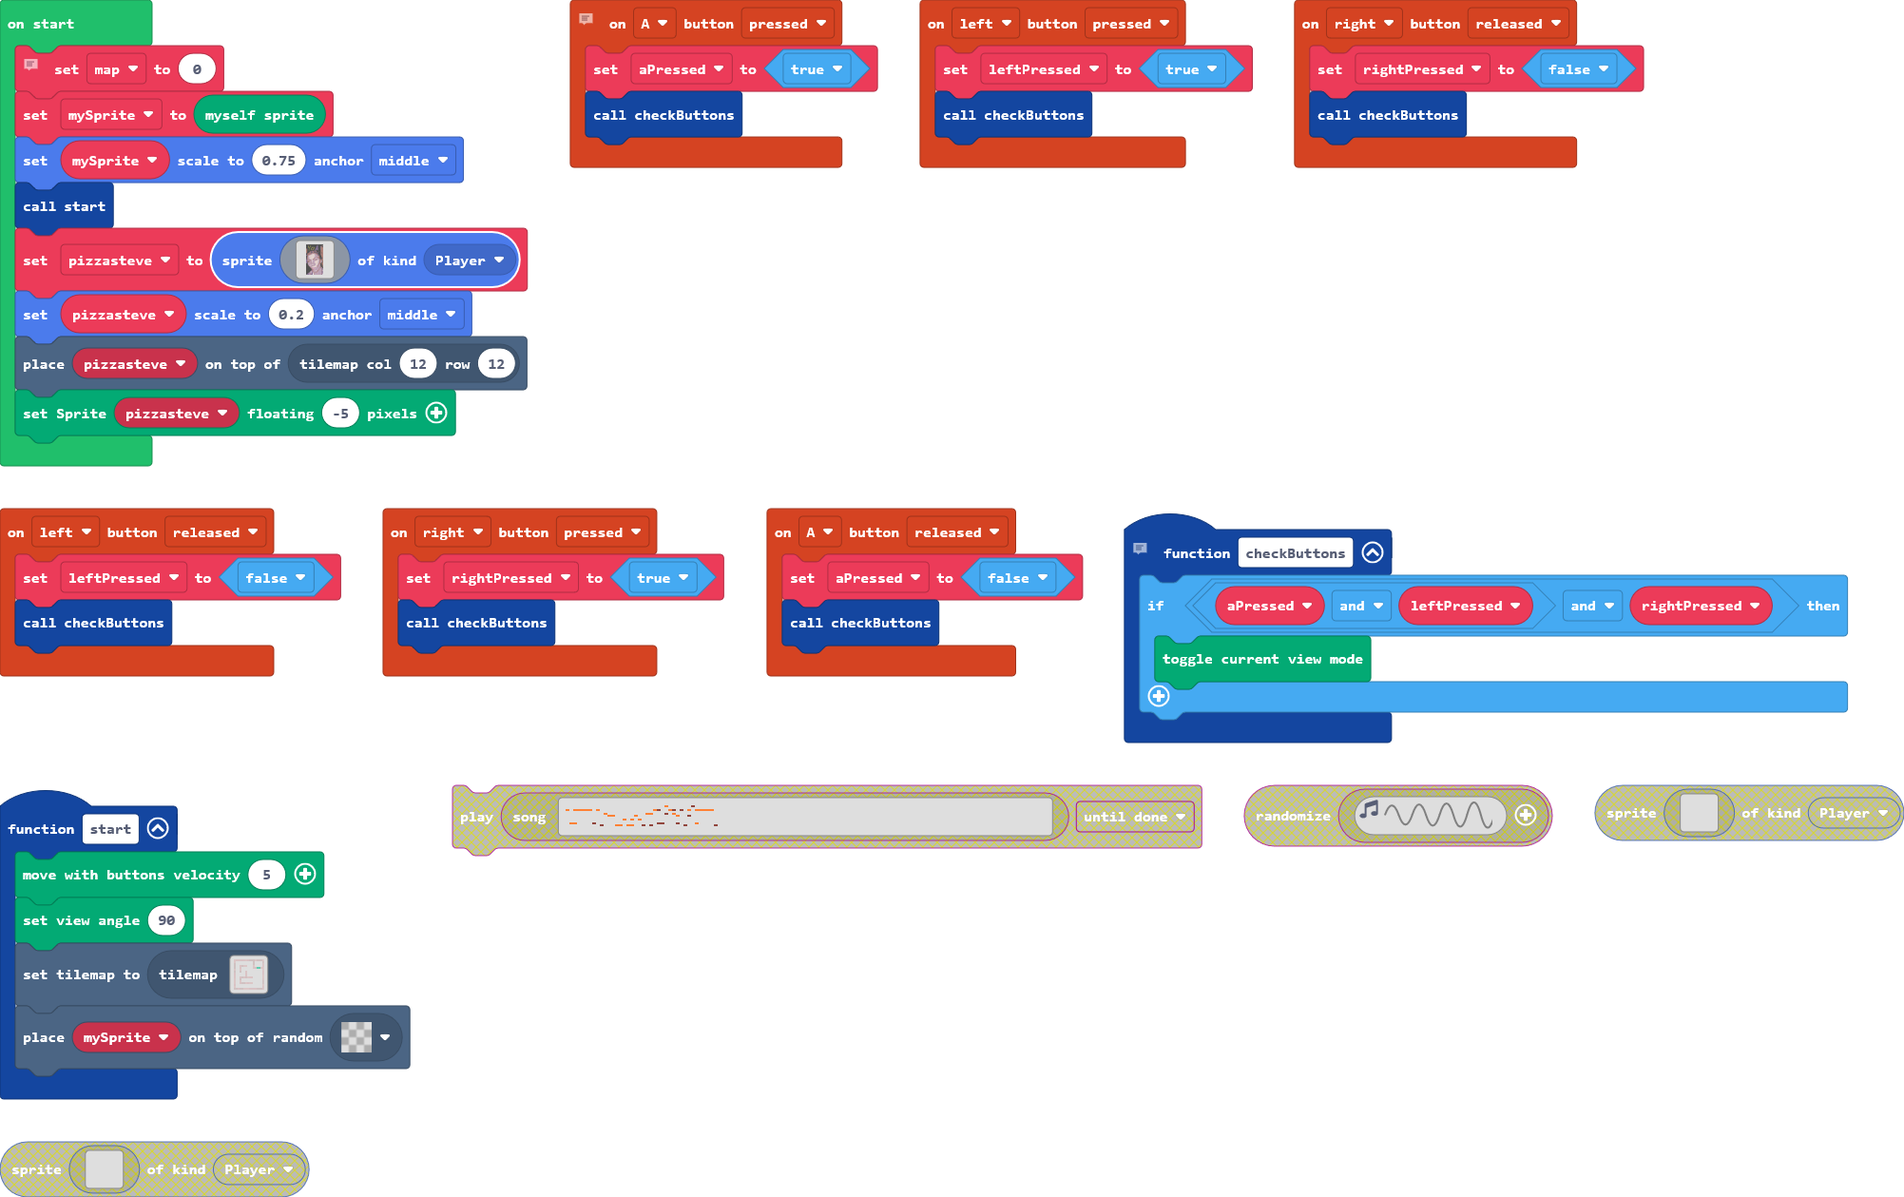
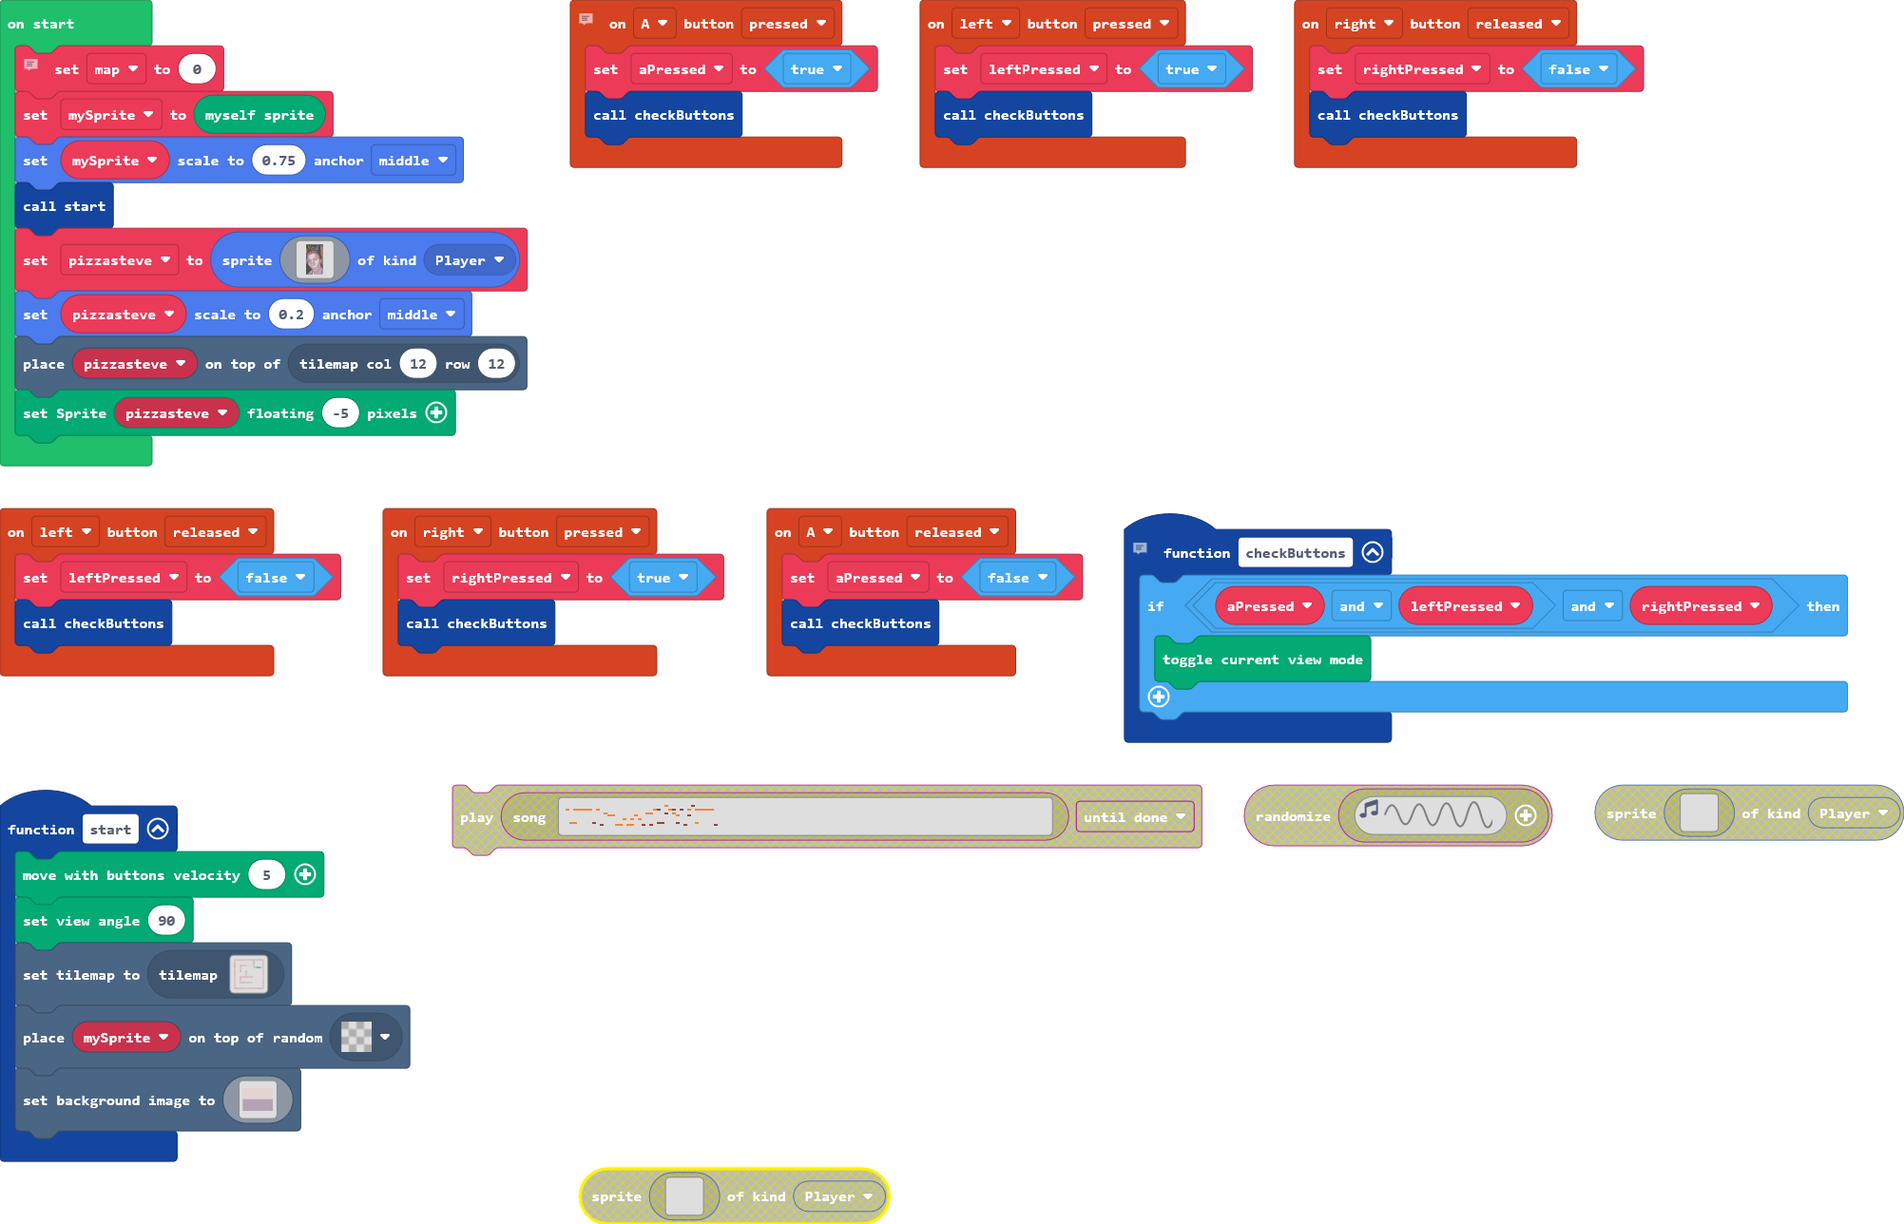
"ceiling" & "floor" (added  background image)

diff --git a/main.ts b/main.ts
@@ -34,6 +34,128 @@ function start () {
     Render.setViewAngleInDegree(90)
     tiles.setCurrentTilemap(tilemap`level1`)
     tiles.placeOnRandomTile(mySprite, assets.tile`transparency16`)
+    scene.setBackgroundImage(img`
+        dddddddddddddddddddddddddddddddddddddddddddddddddddddddddddddddddddddddddddddddddddddddddddddddddddddddddddddddddddddddddddddddddddddddddddddddddddddddddddddddd
+        dddddddddddddddddddddddddddddddddddddddddddddddddddddddddddddddddddddddddddddddddddddddddddddddddddddddddddddddddddddddddddddddddddddddddddddddddddddddddddddddd
+        dddddddddddddddddddddddddddddddddddddddddddddddddddddddddddddddddddddddddddddddddddddddddddddddddddddddddddddddddddddddddddddddddddddddddddddddddddddddddddddddd
+        dddddddddddddddddddddddddddddddddddddddddddddddddddddddddddddddddddddddddddddddddddddddddddddddddddddddddddddddddddddddddddddddddddddddddddddddddddddddddddddddd
+        dddddddddddddddddddddddddddddddddddddddddddddddddddddddddddddddddddddddddddddddddddddddddddddddddddddddddddddddddddddddddddddddddddddddddddddddddddddddddddddddd
+        dddddddddddddddddddddddddddddddddddddddddddddddddddddddddddddddddddddddddddddddddddddddddddddddddddddddddddddddddddddddddddddddddddddddddddddddddddddddddddddddd
+        dddddddddddddddddddddddddddddddddddddddddddddddddddddddddddddddddddddddddddddddddddddddddddddddddddddddddddddddddddddddddddddddddddddddddddddddddddddddddddddddd
+        dddddddddddddddddddddddddddddddddddddddddddddddddddddddddddddddddddddddddddddddddddddddddddddddddddddddddddddddddddddddddddddddddddddddddddddddddddddddddddddddd
+        dddddddddddddddddddddddddddddddddddddddddddddddddddddddddddddddddddddddddddddddddddddddddddddddddddddddddddddddddddddddddddddddddddddddddddddddddddddddddddddddd
+        dddddddddddddddddddddddddddddddddddddddddddddddddddddddddddddddddddddddddddddddddddddddddddddddddddddddddddddddddddddddddddddddddddddddddddddddddddddddddddddddd
+        dddddddddddddddddddddddddddddddddddddddddddddddddddddddddddddddddddddddddddddddddddddddddddddddddddddddddddddddddddddddddddddddddddddddddddddddddddddddddddddddd
+        dddddddddddddddddddddddddddddddddddddddddddddddddddddddddddddddddddddddddddddddddddddddddddddddddddddddddddddddddddddddddddddddddddddddddddddddddddddddddddddddd
+        dddddddddddddddddddddddddddddddddddddddddddddddddddddddddddddddddddddddddddddddddddddddddddddddddddddddddddddddddddddddddddddddddddddddddddddddddddddddddddddddd
+        dddddddddddddddddddddddddddddddddddddddddddddddddddddddddddddddddddddddddddddddddddddddddddddddddddddddddddddddddddddddddddddddddddddddddddddddddddddddddddddddd
+        dddddddddddddddddddddddddddddddddddddddddddddddddddddddddddddddddddddddddddddddddddddddddddddddddddddddddddddddddddddddddddddddddddddddddddddddddddddddddddddddd
+        dddddddddddddddddddddddddddddddddddddddddddddddddddddddddddddddddddddddddddddddddddddddddddddddddddddddddddddddddddddddddddddddddddddddddddddddddddddddddddddddd
+        dddddddddddddddddddddddddddddddddddddddddddddddddddddddddddddddddddddddddddddddddddddddddddddddddddddddddddddddddddddddddddddddddddddddddddddddddddddddddddddddd
+        dddddddddddddddddddddddddddddddddddddddddddddddddddddddddddddddddddddddddddddddddddddddddddddddddddddddddddddddddddddddddddddddddddddddddddddddddddddddddddddddd
+        dddddddddddddddddddddddddddddddddddddddddddddddddddddddddddddddddddddddddddddddddddddddddddddddddddddddddddddddddddddddddddddddddddddddddddddddddddddddddddddddd
+        dddddddddddddddddddddddddddddddddddddddddddddddddddddddddddddddddddddddddddddddddddddddddddddddddddddddddddddddddddddddddddddddddddddddddddddddddddddddddddddddd
+        dddddddddddddddddddddddddddddddddddddddddddddddddddddddddddddddddddddddddddddddddddddddddddddddddddddddddddddddddddddddddddddddddddddddddddddddddddddddddddddddd
+        dddddddddddddddddddddddddddddddddddddddddddddddddddddddddddddddddddddddddddddddddddddddddddddddddddddddddddddddddddddddddddddddddddddddddddddddddddddddddddddddd
+        dddddddddddddddddddddddddddddddddddddddddddddddddddddddddddddddddddddddddddddddddddddddddddddddddddddddddddddddddddddddddddddddddddddddddddddddddddddddddddddddd
+        dddddddddddddddddddddddddddddddddddddddddddddddddddddddddddddddddddddddddddddddddddddddddddddddddddddddddddddddddddddddddddddddddddddddddddddddddddddddddddddddd
+        dddddddddddddddddddddddddddddddddddddddddddddddddddddddddddddddddddddddddddddddddddddddddddddddddddddddddddddddddddddddddddddddddddddddddddddddddddddddddddddddd
+        dddddddddddddddddddddddddddddddddddddddddddddddddddddddddddddddddddddddddddddddddddddddddddddddddddddddddddddddddddddddddddddddddddddddddddddddddddddddddddddddd
+        dddddddddddddddddddddddddddddddddddddddddddddddddddddddddddddddddddddddddddddddddddddddddddddddddddddddddddddddddddddddddddddddddddddddddddddddddddddddddddddddd
+        dddddddddddddddddddddddddddddddddddddddddddddddddddddddddddddddddddddddddddddddddddddddddddddddddddddddddddddddddddddddddddddddddddddddddddddddddddddddddddddddd
+        dddddddddddddddddddddddddddddddddddddddddddddddddddddddddddddddddddddddddddddddddddddddddddddddddddddddddddddddddddddddddddddddddddddddddddddddddddddddddddddddd
+        dddddddddddddddddddddddddddddddddddddddddddddddddddddddddddddddddddddddddddddddddddddddddddddddddddddddddddddddddddddddddddddddddddddddddddddddddddddddddddddddd
+        dddddddddddddddddddddddddddddddddddddddddddddddddddddddddddddddddddddddddddddddddddddddddddddddddddddddddddddddddddddddddddddddddddddddddddddddddddddddddddddddd
+        dddddddddddddddddddddddddddddddddddddddddddddddddddddddddddddddddddddddddddddddddddddddddddddddddddddddddddddddddddddddddddddddddddddddddddddddddddddddddddddddd
+        dddddddddddddddddddddddddddddddddddddddddddddddddddddddddddddddddddddddddddddddddddddddddddddddddddddddddddddddddddddddddddddddddddddddddddddddddddddddddddddddd
+        dddddddddddddddddddddddddddddddddddddddddddddddddddddddddddddddddddddddddddddddddddddddddddddddddddddddddddddddddddddddddddddddddddddddddddddddddddddddddddddddd
+        dddddddddddddddddddddddddddddddddddddddddddddddddddddddddddddddddddddddddddddddddddddddddddddddddddddddddddddddddddddddddddddddddddddddddddddddddddddddddddddddd
+        dddddddddddddddddddddddddddddddddddddddddddddddddddddddddddddddddddddddddddddddddddddddddddddddddddddddddddddddddddddddddddddddddddddddddddddddddddddddddddddddd
+        dddddddddddddddddddddddddddddddddddddddddddddddddddddddddddddddddddddddddddddddddddddddddddddddddddddddddddddddddddddddddddddddddddddddddddddddddddddddddddddddd
+        dddddddddddddddddddddddddddddddddddddddddddddddddddddddddddddddddddddddddddddddddddddddddddddddddddddddddddddddddddddddddddddddddddddddddddddddddddddddddddddddd
+        dddddddddddddddddddddddddddddddddddddddddddddddddddddddddddddddddddddddddddddddddddddddddddddddddddddddddddddddddddddddddddddddddddddddddddddddddddddddddddddddd
+        dddddddddddddddddddddddddddddddddddddddddddddddddddddddddddddddddddddddddddddddddddddddddddddddddddddddddddddddddddddddddddddddddddddddddddddddddddddddddddddddd
+        dddddddddddddddddddddddddddddddddddddddddddddddddddddddddddddddddddddddddddddddddddddddddddddddddddddddddddddddddddddddddddddddddddddddddddddddddddddddddddddddd
+        dddddddddddddddddddddddddddddddddddddddddddddddddddddddddddddddddddddddddddddddddddddddddddddddddddddddddddddddddddddddddddddddddddddddddddddddddddddddddddddddd
+        dddddddddddddddddddddddddddddddddddddddddddddddddddddddddddddddddddddddddddddddddddddddddddddddddddddddddddddddddddddddddddddddddddddddddddddddddddddddddddddddd
+        dddddddddddddddddddddddddddddddddddddddddddddddddddddddddddddddddddddddddddddddddddddddddddddddddddddddddddddddddddddddddddddddddddddddddddddddddddddddddddddddd
+        dddddddddddddddddddddddddddddddddddddddddddddddddddddddddddddddddddddddddddddddddddddddddddddddddddddddddddddddddddddddddddddddddddddddddddddddddddddddddddddddd
+        dddddddddddddddddddddddddddddddddddddddddddddddddddddddddddddddddddddddddddddddddddddddddddddddddddddddddddddddddddddddddddddddddddddddddddddddddddddddddddddddd
+        dddddddddddddddddddddddddddddddddddddddddddddddddddddddddddddddddddddddddddddddddddddddddddddddddddddddddddddddddddddddddddddddddddddddddddddddddddddddddddddddd
+        dddddddddddddddddddddddddddddddddddddddddddddddddddddddddddddddddddddddddddddddddddddddddddddddddddddddddddddddddddddddddddddddddddddddddddddddddddddddddddddddd
+        dddddddddddddddddddddddddddddddddddddddddddddddddddddddddddddddddddddddddddddddddddddddddddddddddddddddddddddddddddddddddddddddddddddddddddddddddddddddddddddddd
+        dddddddddddddddddddddddddddddddddddddddddddddddddddddddddddddddddddddddddddddddddddddddddddddddddddddddddddddddddddddddddddddddddddddddddddddddddddddddddddddddd
+        dddddddddddddddddddddddddddddddddddddddddddddddddddddddddddddddddddddddddddddddddddddddddddddddddddddddddddddddddddddddddddddddddddddddddddddddddddddddddddddddd
+        dddddddddddddddddddddddddddddddddddddddddddddddddddddddddddddddddddddddddddddddddddddddddddddddddddddddddddddddddddddddddddddddddddddddddddddddddddddddddddddddd
+        dddddddddddddddddddddddddddddddddddddddddddddddddddddddddddddddddddddddddddddddddddddddddddddddddddddddddddddddddddddddddddddddddddddddddddddddddddddddddddddddd
+        dddddddddddddddddddddddddddddddddddddddddddddddddddddddddddddddddddddddddddddddddddddddddddddddddddddddddddddddddddddddddddddddddddddddddddddddddddddddddddddddd
+        dddddddddddddddddddddddddddddddddddddddddddddddddddddddddddddddddddddddddddddddddddddddddddddddddddddddddddddddddddddddddddddddddddddddddddddddddddddddddddddddd
+        dddddddddddddddddddddddddddddddddddddddddddddddddddddddddddddddddddddddddddddddddddddddddddddddddddddddddddddddddddddddddddddddddddddddddddddddddddddddddddddddd
+        dddddddddddddddddddddddddddddddddddddddddddddddddddddddddddddddddddddddddddddddddddddddddddddddddddddddddddddddddddddddddddddddddddddddddddddddddddddddddddddddd
+        dddddddddddddddddddddddddddddddddddddddddddddddddddddddddddddddddddddddddddddddddddddddddddddddddddddddddddddddddddddddddddddddddddddddddddddddddddddddddddddddd
+        bbbbbbbbbbbbbbbbbbbbbbbbbbbbbbbbbbbbbbbbbbbbbbbbbbbbbbbbbbbbbbbbbbbbbbbbbbbbbbbbbbbbbbbbbbbbbbbbbbbbbbbbbbbbbbbbbbbbbbbbbbbbbbbbbbbbbbbbbbbbbbbbbbbbbbbbbbbbbbbb
+        bbbbbbbbbbbbbbbbbbbbbbbbbbbbbbbbbbbbbbbbbbbbbbbbbbbbbbbbbbbbbbbbbbbbbbbbbbbbbbbbbbbbbbbbbbbbbbbbbbbbbbbbbbbbbbbbbbbbbbbbbbbbbbbbbbbbbbbbbbbbbbbbbbbbbbbbbbbbbbbb
+        bbbbbbbbbbbbbbbbbbbbbbbbbbbbbbbbbbbbbbbbbbbbbbbbbbbbbbbbbbbbbbbbbbbbbbbbbbbbbbbbbbbbbbbbbbbbbbbbbbbbbbbbbbbbbbbbbbbbbbbbbbbbbbbbbbbbbbbbbbbbbbbbbbbbbbbbbbbbbbbb
+        bbbbbbbbbbbbbbbbbbbbbbbbbbbbbbbbbbbbbbbbbbbbbbbbbbbbbbbbbbbbbbbbbbbbbbbbbbbbbbbbbbbbbbbbbbbbbbbbbbbbbbbbbbbbbbbbbbbbbbbbbbbbbbbbbbbbbbbbbbbbbbbbbbbbbbbbbbbbbbbb
+        bbbbbbbbbbbbbbbbbbbbbbbbbbbbbbbbbbbbbbbbbbbbbbbbbbbbbbbbbbbbbbbbbbbbbbbbbbbbbbbbbbbbbbbbbbbbbbbbbbbbbbbbbbbbbbbbbbbbbbbbbbbbbbbbbbbbbbbbbbbbbbbbbbbbbbbbbbbbbbbb
+        bbbbbbbbbbbbbbbbbbbbbbbbbbbbbbbbbbbbbbbbbbbbbbbbbbbbbbbbbbbbbbbbbbbbbbbbbbbbbbbbbbbbbbbbbbbbbbbbbbbbbbbbbbbbbbbbbbbbbbbbbbbbbbbbbbbbbbbbbbbbbbbbbbbbbbbbbbbbbbbb
+        bbbbbbbbbbbbbbbbbbbbbbbbbbbbbbbbbbbbbbbbbbbbbbbbbbbbbbbbbbbbbbbbbbbbbbbbbbbbbbbbbbbbbbbbbbbbbbbbbbbbbbbbbbbbbbbbbbbbbbbbbbbbbbbbbbbbbbbbbbbbbbbbbbbbbbbbbbbbbbbb
+        bbbbbbbbbbbbbbbbbbbbbbbbbbbbbbbbbbbbbbbbbbbbbbbbbbbbbbbbbbbbbbbbbbbbbbbbbbbbbbbbbbbbbbbbbbbbbbbbbbbbbbbbbbbbbbbbbbbbbbbbbbbbbbbbbbbbbbbbbbbbbbbbbbbbbbbbbbbbbbbb
+        bbbbbbbbbbbbbbbbbbbbbbbbbbbbbbbbbbbbbbbbbbbbbbbbbbbbbbbbbbbbbbbbbbbbbbbbbbbbbbbbbbbbbbbbbbbbbbbbbbbbbbbbbbbbbbbbbbbbbbbbbbbbbbbbbbbbbbbbbbbbbbbbbbbbbbbbbbbbbbbb
+        bbbbbbbbbbbbbbbbbbbbbbbbbbbbbbbbbbbbbbbbbbbbbbbbbbbbbbbbbbbbbbbbbbbbbbbbbbbbbbbbbbbbbbbbbbbbbbbbbbbbbbbbbbbbbbbbbbbbbbbbbbbbbbbbbbbbbbbbbbbbbbbbbbbbbbbbbbbbbbbb
+        bbbbbbbbbbbbbbbbbbbbbbbbbbbbbbbbbbbbbbbbbbbbbbbbbbbbbbbbbbbbbbbbbbbbbbbbbbbbbbbbbbbbbbbbbbbbbbbbbbbbbbbbbbbbbbbbbbbbbbbbbbbbbbbbbbbbbbbbbbbbbbbbbbbbbbbbbbbbbbbb
+        bbbbbbbbbbbbbbbbbbbbbbbbbbbbbbbbbbbbbbbbbbbbbbbbbbbbbbbbbbbbbbbbbbbbbbbbbbbbbbbbbbbbbbbbbbbbbbbbbbbbbbbbbbbbbbbbbbbbbbbbbbbbbbbbbbbbbbbbbbbbbbbbbbbbbbbbbbbbbbbb
+        bbbbbbbbbbbbbbbbbbbbbbbbbbbbbbbbbbbbbbbbbbbbbbbbbbbbbbbbbbbbbbbbbbbbbbbbbbbbbbbbbbbbbbbbbbbbbbbbbbbbbbbbbbbbbbbbbbbbbbbbbbbbbbbbbbbbbbbbbbbbbbbbbbbbbbbbbbbbbbbb
+        bbbbbbbbbbbbbbbbbbbbbbbbbbbbbbbbbbbbbbbbbbbbbbbbbbbbbbbbbbbbbbbbbbbbbbbbbbbbbbbbbbbbbbbbbbbbbbbbbbbbbbbbbbbbbbbbbbbbbbbbbbbbbbbbbbbbbbbbbbbbbbbbbbbbbbbbbbbbbbbb
+        bbbbbbbbbbbbbbbbbbbbbbbbbbbbbbbbbbbbbbbbbbbbbbbbbbbbbbbbbbbbbbbbbbbbbbbbbbbbbbbbbbbbbbbbbbbbbbbbbbbbbbbbbbbbbbbbbbbbbbbbbbbbbbbbbbbbbbbbbbbbbbbbbbbbbbbbbbbbbbbb
+        bbbbbbbbbbbbbbbbbbbbbbbbbbbbbbbbbbbbbbbbbbbbbbbbbbbbbbbbbbbbbbbbbbbbbbbbbbbbbbbbbbbbbbbbbbbbbbbbbbbbbbbbbbbbbbbbbbbbbbbbbbbbbbbbbbbbbbbbbbbbbbbbbbbbbbbbbbbbbbbb
+        bbbbbbbbbbbbbbbbbbbbbbbbbbbbbbbbbbbbbbbbbbbbbbbbbbbbbbbbbbbbbbbbbbbbbbbbbbbbbbbbbbbbbbbbbbbbbbbbbbbbbbbbbbbbbbbbbbbbbbbbbbbbbbbbbbbbbbbbbbbbbbbbbbbbbbbbbbbbbbbb
+        bbbbbbbbbbbbbbbbbbbbbbbbbbbbbbbbbbbbbbbbbbbbbbbbbbbbbbbbbbbbbbbbbbbbbbbbbbbbbbbbbbbbbbbbbbbbbbbbbbbbbbbbbbbbbbbbbbbbbbbbbbbbbbbbbbbbbbbbbbbbbbbbbbbbbbbbbbbbbbbb
+        bbbbbbbbbbbbbbbbbbbbbbbbbbbbbbbbbbbbbbbbbbbbbbbbbbbbbbbbbbbbbbbbbbbbbbbbbbbbbbbbbbbbbbbbbbbbbbbbbbbbbbbbbbbbbbbbbbbbbbbbbbbbbbbbbbbbbbbbbbbbbbbbbbbbbbbbbbbbbbbb
+        bbbbbbbbbbbbbbbbbbbbbbbbbbbbbbbbbbbbbbbbbbbbbbbbbbbbbbbbbbbbbbbbbbbbbbbbbbbbbbbbbbbbbbbbbbbbbbbbbbbbbbbbbbbbbbbbbbbbbbbbbbbbbbbbbbbbbbbbbbbbbbbbbbbbbbbbbbbbbbbb
+        bbbbbbbbbbbbbbbbbbbbbbbbbbbbbbbbbbbbbbbbbbbbbbbbbbbbbbbbbbbbbbbbbbbbbbbbbbbbbbbbbbbbbbbbbbbbbbbbbbbbbbbbbbbbbbbbbbbbbbbbbbbbbbbbbbbbbbbbbbbbbbbbbbbbbbbbbbbbbbbb
+        bbbbbbbbbbbbbbbbbbbbbbbbbbbbbbbbbbbbbbbbbbbbbbbbbbbbbbbbbbbbbbbbbbbbbbbbbbbbbbbbbbbbbbbbbbbbbbbbbbbbbbbbbbbbbbbbbbbbbbbbbbbbbbbbbbbbbbbbbbbbbbbbbbbbbbbbbbbbbbbb
+        bbbbbbbbbbbbbbbbbbbbbbbbbbbbbbbbbbbbbbbbbbbbbbbbbbbbbbbbbbbbbbbbbbbbbbbbbbbbbbbbbbbbbbbbbbbbbbbbbbbbbbbbbbbbbbbbbbbbbbbbbbbbbbbbbbbbbbbbbbbbbbbbbbbbbbbbbbbbbbbb
+        bbbbbbbbbbbbbbbbbbbbbbbbbbbbbbbbbbbbbbbbbbbbbbbbbbbbbbbbbbbbbbbbbbbbbbbbbbbbbbbbbbbbbbbbbbbbbbbbbbbbbbbbbbbbbbbbbbbbbbbbbbbbbbbbbbbbbbbbbbbbbbbbbbbbbbbbbbbbbbbb
+        bbbbbbbbbbbbbbbbbbbbbbbbbbbbbbbbbbbbbbbbbbbbbbbbbbbbbbbbbbbbbbbbbbbbbbbbbbbbbbbbbbbbbbbbbbbbbbbbbbbbbbbbbbbbbbbbbbbbbbbbbbbbbbbbbbbbbbbbbbbbbbbbbbbbbbbbbbbbbbbb
+        bbbbbbbbbbbbbbbbbbbbbbbbbbbbbbbbbbbbbbbbbbbbbbbbbbbbbbbbbbbbbbbbbbbbbbbbbbbbbbbbbbbbbbbbbbbbbbbbbbbbbbbbbbbbbbbbbbbbbbbbbbbbbbbbbbbbbbbbbbbbbbbbbbbbbbbbbbbbbbbb
+        bbbbbbbbbbbbbbbbbbbbbbbbbbbbbbbbbbbbbbbbbbbbbbbbbbbbbbbbbbbbbbbbbbbbbbbbbbbbbbbbbbbbbbbbbbbbbbbbbbbbbbbbbbbbbbbbbbbbbbbbbbbbbbbbbbbbbbbbbbbbbbbbbbbbbbbbbbbbbbbb
+        bbbbbbbbbbbbbbbbbbbbbbbbbbbbbbbbbbbbbbbbbbbbbbbbbbbbbbbbbbbbbbbbbbbbbbbbbbbbbbbbbbbbbbbbbbbbbbbbbbbbbbbbbbbbbbbbbbbbbbbbbbbbbbbbbbbbbbbbbbbbbbbbbbbbbbbbbbbbbbbb
+        bbbbbbbbbbbbbbbbbbbbbbbbbbbbbbbbbbbbbbbbbbbbbbbbbbbbbbbbbbbbbbbbbbbbbbbbbbbbbbbbbbbbbbbbbbbbbbbbbbbbbbbbbbbbbbbbbbbbbbbbbbbbbbbbbbbbbbbbbbbbbbbbbbbbbbbbbbbbbbbb
+        bbbbbbbbbbbbbbbbbbbbbbbbbbbbbbbbbbbbbbbbbbbbbbbbbbbbbbbbbbbbbbbbbbbbbbbbbbbbbbbbbbbbbbbbbbbbbbbbbbbbbbbbbbbbbbbbbbbbbbbbbbbbbbbbbbbbbbbbbbbbbbbbbbbbbbbbbbbbbbbb
+        bbbbbbbbbbbbbbbbbbbbbbbbbbbbbbbbbbbbbbbbbbbbbbbbbbbbbbbbbbbbbbbbbbbbbbbbbbbbbbbbbbbbbbbbbbbbbbbbbbbbbbbbbbbbbbbbbbbbbbbbbbbbbbbbbbbbbbbbbbbbbbbbbbbbbbbbbbbbbbbb
+        bbbbbbbbbbbbbbbbbbbbbbbbbbbbbbbbbbbbbbbbbbbbbbbbbbbbbbbbbbbbbbbbbbbbbbbbbbbbbbbbbbbbbbbbbbbbbbbbbbbbbbbbbbbbbbbbbbbbbbbbbbbbbbbbbbbbbbbbbbbbbbbbbbbbbbbbbbbbbbbb
+        bbbbbbbbbbbbbbbbbbbbbbbbbbbbbbbbbbbbbbbbbbbbbbbbbbbbbbbbbbbbbbbbbbbbbbbbbbbbbbbbbbbbbbbbbbbbbbbbbbbbbbbbbbbbbbbbbbbbbbbbbbbbbbbbbbbbbbbbbbbbbbbbbbbbbbbbbbbbbbbb
+        bbbbbbbbbbbbbbbbbbbbbbbbbbbbbbbbbbbbbbbbbbbbbbbbbbbbbbbbbbbbbbbbbbbbbbbbbbbbbbbbbbbbbbbbbbbbbbbbbbbbbbbbbbbbbbbbbbbbbbbbbbbbbbbbbbbbbbbbbbbbbbbbbbbbbbbbbbbbbbbb
+        bbbbbbbbbbbbbbbbbbbbbbbbbbbbbbbbbbbbbbbbbbbbbbbbbbbbbbbbbbbbbbbbbbbbbbbbbbbbbbbbbbbbbbbbbbbbbbbbbbbbbbbbbbbbbbbbbbbbbbbbbbbbbbbbbbbbbbbbbbbbbbbbbbbbbbbbbbbbbbbb
+        bbbbbbbbbbbbbbbbbbbbbbbbbbbbbbbbbbbbbbbbbbbbbbbbbbbbbbbbbbbbbbbbbbbbbbbbbbbbbbbbbbbbbbbbbbbbbbbbbbbbbbbbbbbbbbbbbbbbbbbbbbbbbbbbbbbbbbbbbbbbbbbbbbbbbbbbbbbbbbbb
+        bbbbbbbbbbbbbbbbbbbbbbbbbbbbbbbbbbbbbbbbbbbbbbbbbbbbbbbbbbbbbbbbbbbbbbbbbbbbbbbbbbbbbbbbbbbbbbbbbbbbbbbbbbbbbbbbbbbbbbbbbbbbbbbbbbbbbbbbbbbbbbbbbbbbbbbbbbbbbbbb
+        bbbbbbbbbbbbbbbbbbbbbbbbbbbbbbbbbbbbbbbbbbbbbbbbbbbbbbbbbbbbbbbbbbbbbbbbbbbbbbbbbbbbbbbbbbbbbbbbbbbbbbbbbbbbbbbbbbbbbbbbbbbbbbbbbbbbbbbbbbbbbbbbbbbbbbbbbbbbbbbb
+        bbbbbbbbbbbbbbbbbbbbbbbbbbbbbbbbbbbbbbbbbbbbbbbbbbbbbbbbbbbbbbbbbbbbbbbbbbbbbbbbbbbbbbbbbbbbbbbbbbbbbbbbbbbbbbbbbbbbbbbbbbbbbbbbbbbbbbbbbbbbbbbbbbbbbbbbbbbbbbbb
+        bbbbbbbbbbbbbbbbbbbbbbbbbbbbbbbbbbbbbbbbbbbbbbbbbbbbbbbbbbbbbbbbbbbbbbbbbbbbbbbbbbbbbbbbbbbbbbbbbbbbbbbbbbbbbbbbbbbbbbbbbbbbbbbbbbbbbbbbbbbbbbbbbbbbbbbbbbbbbbbb
+        bbbbbbbbbbbbbbbbbbbbbbbbbbbbbbbbbbbbbbbbbbbbbbbbbbbbbbbbbbbbbbbbbbbbbbbbbbbbbbbbbbbbbbbbbbbbbbbbbbbbbbbbbbbbbbbbbbbbbbbbbbbbbbbbbbbbbbbbbbbbbbbbbbbbbbbbbbbbbbbb
+        bbbbbbbbbbbbbbbbbbbbbbbbbbbbbbbbbbbbbbbbbbbbbbbbbbbbbbbbbbbbbbbbbbbbbbbbbbbbbbbbbbbbbbbbbbbbbbbbbbbbbbbbbbbbbbbbbbbbbbbbbbbbbbbbbbbbbbbbbbbbbbbbbbbbbbbbbbbbbbbb
+        bbbbbbbbbbbbbbbbbbbbbbbbbbbbbbbbbbbbbbbbbbbbbbbbbbbbbbbbbbbbbbbbbbbbbbbbbbbbbbbbbbbbbbbbbbbbbbbbbbbbbbbbbbbbbbbbbbbbbbbbbbbbbbbbbbbbbbbbbbbbbbbbbbbbbbbbbbbbbbbb
+        bbbbbbbbbbbbbbbbbbbbbbbbbbbbbbbbbbbbbbbbbbbbbbbbbbbbbbbbbbbbbbbbbbbbbbbbbbbbbbbbbbbbbbbbbbbbbbbbbbbbbbbbbbbbbbbbbbbbbbbbbbbbbbbbbbbbbbbbbbbbbbbbbbbbbbbbbbbbbbbb
+        bbbbbbbbbbbbbbbbbbbbbbbbbbbbbbbbbbbbbbbbbbbbbbbbbbbbbbbbbbbbbbbbbbbbbbbbbbbbbbbbbbbbbbbbbbbbbbbbbbbbbbbbbbbbbbbbbbbbbbbbbbbbbbbbbbbbbbbbbbbbbbbbbbbbbbbbbbbbbbbb
+        bbbbbbbbbbbbbbbbbbbbbbbbbbbbbbbbbbbbbbbbbbbbbbbbbbbbbbbbbbbbbbbbbbbbbbbbbbbbbbbbbbbbbbbbbbbbbbbbbbbbbbbbbbbbbbbbbbbbbbbbbbbbbbbbbbbbbbbbbbbbbbbbbbbbbbbbbbbbbbbb
+        bbbbbbbbbbbbbbbbbbbbbbbbbbbbbbbbbbbbbbbbbbbbbbbbbbbbbbbbbbbbbbbbbbbbbbbbbbbbbbbbbbbbbbbbbbbbbbbbbbbbbbbbbbbbbbbbbbbbbbbbbbbbbbbbbbbbbbbbbbbbbbbbbbbbbbbbbbbbbbbb
+        bbbbbbbbbbbbbbbbbbbbbbbbbbbbbbbbbbbbbbbbbbbbbbbbbbbbbbbbbbbbbbbbbbbbbbbbbbbbbbbbbbbbbbbbbbbbbbbbbbbbbbbbbbbbbbbbbbbbbbbbbbbbbbbbbbbbbbbbbbbbbbbbbbbbbbbbbbbbbbbb
+        bbbbbbbbbbbbbbbbbbbbbbbbbbbbbbbbbbbbbbbbbbbbbbbbbbbbbbbbbbbbbbbbbbbbbbbbbbbbbbbbbbbbbbbbbbbbbbbbbbbbbbbbbbbbbbbbbbbbbbbbbbbbbbbbbbbbbbbbbbbbbbbbbbbbbbbbbbbbbbbb
+        bbbbbbbbbbbbbbbbbbbbbbbbbbbbbbbbbbbbbbbbbbbbbbbbbbbbbbbbbbbbbbbbbbbbbbbbbbbbbbbbbbbbbbbbbbbbbbbbbbbbbbbbbbbbbbbbbbbbbbbbbbbbbbbbbbbbbbbbbbbbbbbbbbbbbbbbbbbbbbbb
+        bbbbbbbbbbbbbbbbbbbbbbbbbbbbbbbbbbbbbbbbbbbbbbbbbbbbbbbbbbbbbbbbbbbbbbbbbbbbbbbbbbbbbbbbbbbbbbbbbbbbbbbbbbbbbbbbbbbbbbbbbbbbbbbbbbbbbbbbbbbbbbbbbbbbbbbbbbbbbbbb
+        bbbbbbbbbbbbbbbbbbbbbbbbbbbbbbbbbbbbbbbbbbbbbbbbbbbbbbbbbbbbbbbbbbbbbbbbbbbbbbbbbbbbbbbbbbbbbbbbbbbbbbbbbbbbbbbbbbbbbbbbbbbbbbbbbbbbbbbbbbbbbbbbbbbbbbbbbbbbbbbb
+        bbbbbbbbbbbbbbbbbbbbbbbbbbbbbbbbbbbbbbbbbbbbbbbbbbbbbbbbbbbbbbbbbbbbbbbbbbbbbbbbbbbbbbbbbbbbbbbbbbbbbbbbbbbbbbbbbbbbbbbbbbbbbbbbbbbbbbbbbbbbbbbbbbbbbbbbbbbbbbbb
+        bbbbbbbbbbbbbbbbbbbbbbbbbbbbbbbbbbbbbbbbbbbbbbbbbbbbbbbbbbbbbbbbbbbbbbbbbbbbbbbbbbbbbbbbbbbbbbbbbbbbbbbbbbbbbbbbbbbbbbbbbbbbbbbbbbbbbbbbbbbbbbbbbbbbbbbbbbbbbbbb
+        bbbbbbbbbbbbbbbbbbbbbbbbbbbbbbbbbbbbbbbbbbbbbbbbbbbbbbbbbbbbbbbbbbbbbbbbbbbbbbbbbbbbbbbbbbbbbbbbbbbbbbbbbbbbbbbbbbbbbbbbbbbbbbbbbbbbbbbbbbbbbbbbbbbbbbbbbbbbbbbb
+        bbbbbbbbbbbbbbbbbbbbbbbbbbbbbbbbbbbbbbbbbbbbbbbbbbbbbbbbbbbbbbbbbbbbbbbbbbbbbbbbbbbbbbbbbbbbbbbbbbbbbbbbbbbbbbbbbbbbbbbbbbbbbbbbbbbbbbbbbbbbbbbbbbbbbbbbbbbbbbbb
+        bbbbbbbbbbbbbbbbbbbbbbbbbbbbbbbbbbbbbbbbbbbbbbbbbbbbbbbbbbbbbbbbbbbbbbbbbbbbbbbbbbbbbbbbbbbbbbbbbbbbbbbbbbbbbbbbbbbbbbbbbbbbbbbbbbbbbbbbbbbbbbbbbbbbbbbbbbbbbbbb
+        bbbbbbbbbbbbbbbbbbbbbbbbbbbbbbbbbbbbbbbbbbbbbbbbbbbbbbbbbbbbbbbbbbbbbbbbbbbbbbbbbbbbbbbbbbbbbbbbbbbbbbbbbbbbbbbbbbbbbbbbbbbbbbbbbbbbbbbbbbbbbbbbbbbbbbbbbbbbbbbb
+        bbbbbbbbbbbbbbbbbbbbbbbbbbbbbbbbbbbbbbbbbbbbbbbbbbbbbbbbbbbbbbbbbbbbbbbbbbbbbbbbbbbbbbbbbbbbbbbbbbbbbbbbbbbbbbbbbbbbbbbbbbbbbbbbbbbbbbbbbbbbbbbbbbbbbbbbbbbbbbbb
+        bbbbbbbbbbbbbbbbbbbbbbbbbbbbbbbbbbbbbbbbbbbbbbbbbbbbbbbbbbbbbbbbbbbbbbbbbbbbbbbbbbbbbbbbbbbbbbbbbbbbbbbbbbbbbbbbbbbbbbbbbbbbbbbbbbbbbbbbbbbbbbbbbbbbbbbbbbbbbbbb
+        bbbbbbbbbbbbbbbbbbbbbbbbbbbbbbbbbbbbbbbbbbbbbbbbbbbbbbbbbbbbbbbbbbbbbbbbbbbbbbbbbbbbbbbbbbbbbbbbbbbbbbbbbbbbbbbbbbbbbbbbbbbbbbbbbbbbbbbbbbbbbbbbbbbbbbbbbbbbbbbb
+        bbbbbbbbbbbbbbbbbbbbbbbbbbbbbbbbbbbbbbbbbbbbbbbbbbbbbbbbbbbbbbbbbbbbbbbbbbbbbbbbbbbbbbbbbbbbbbbbbbbbbbbbbbbbbbbbbbbbbbbbbbbbbbbbbbbbbbbbbbbbbbbbbbbbbbbbbbbbbbbb
+        `)
 }
 let rightPressed = false
 let leftPressed = false
